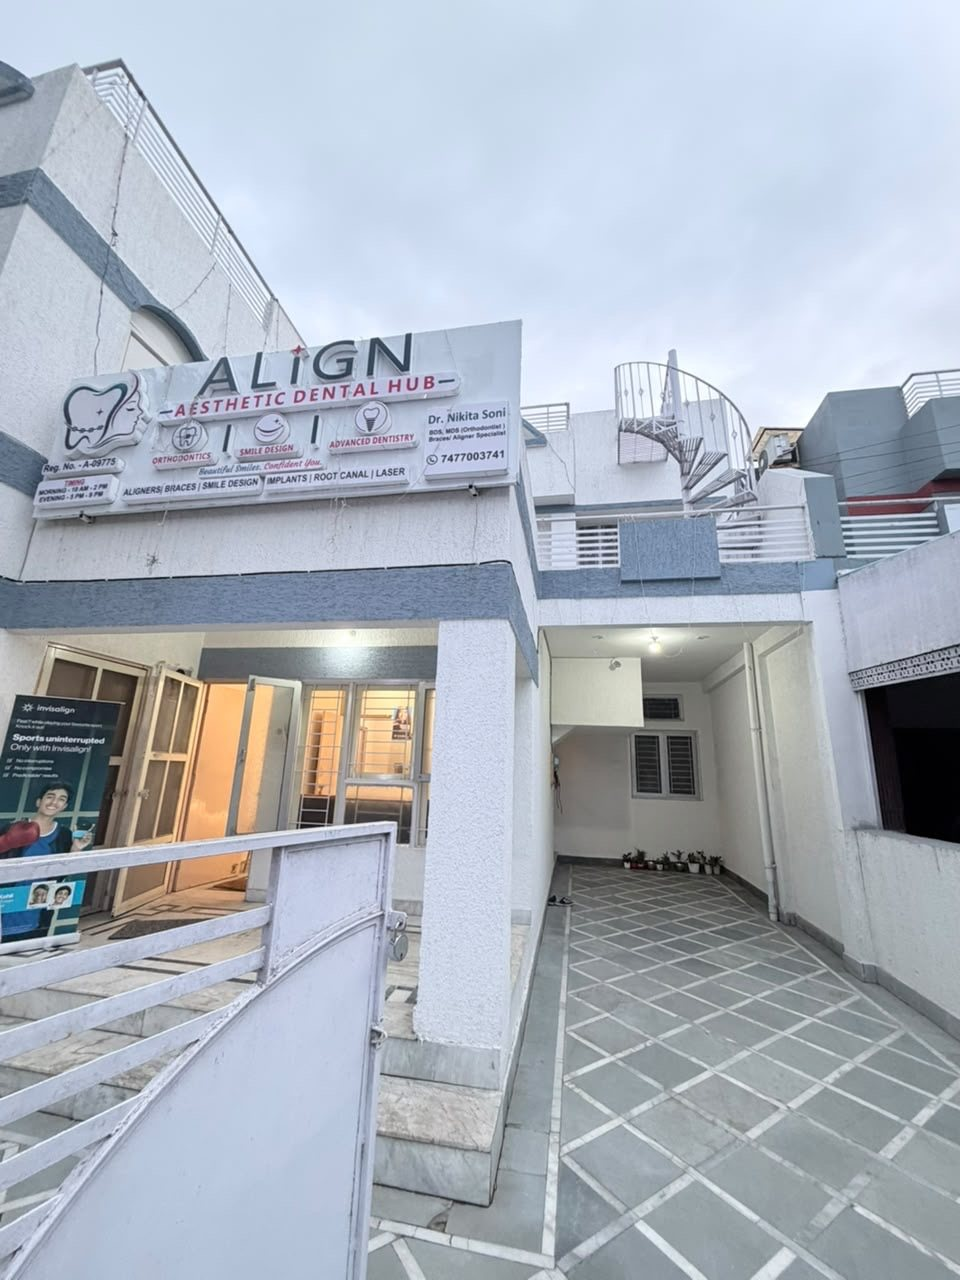
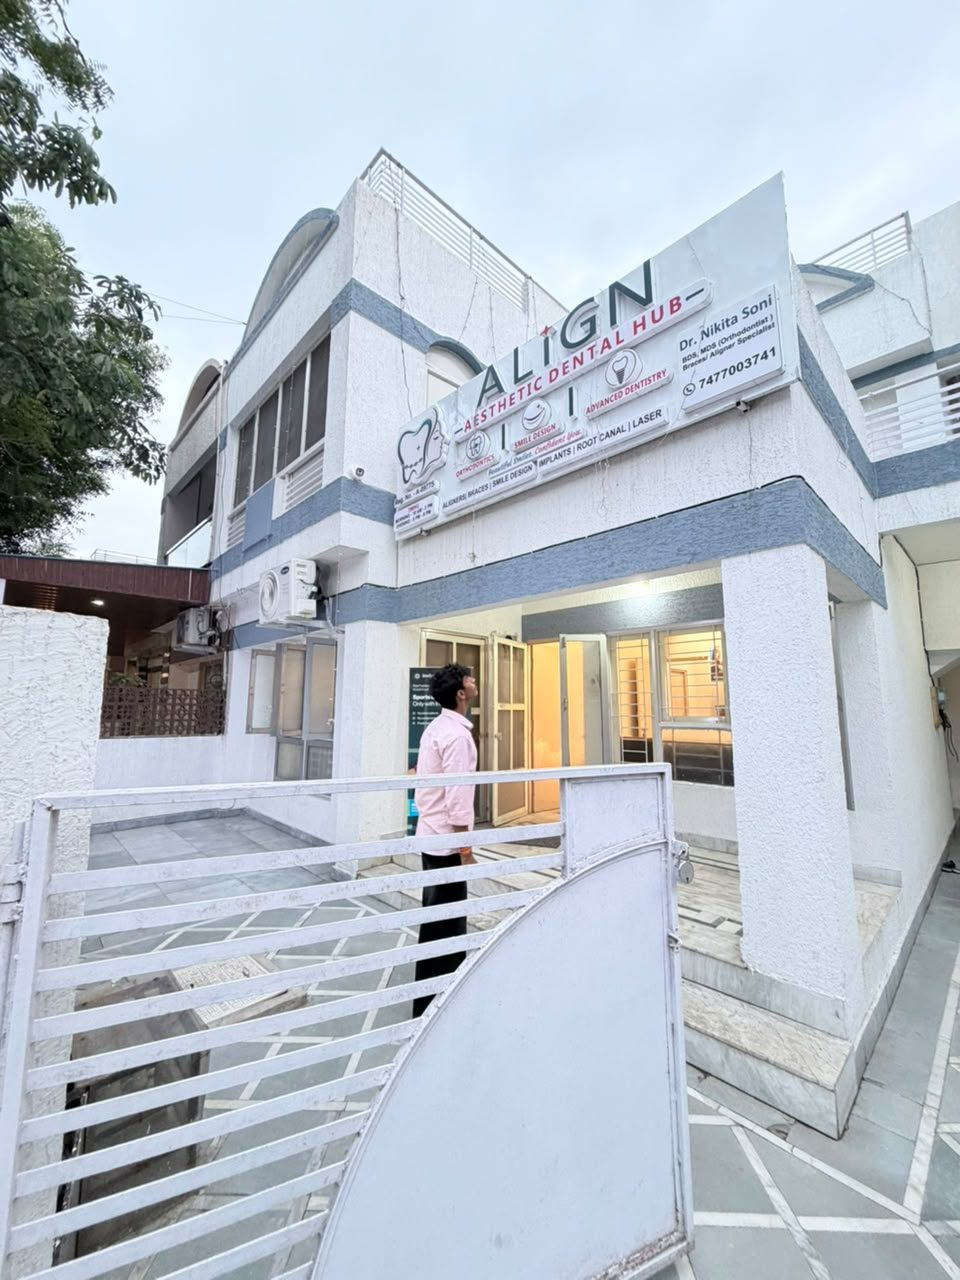
Refresh photos: new doctor/clinic/treatment shots, remove the awkward bent photo, rebuild the day filmstrip

diff --git a/src/lib/gallery.ts b/src/lib/gallery.ts
@@ -1,12 +1,12 @@
-import { learning } from "./clinic";
 /**
  * Clinic photographs published on the site.
  *
  * `hasPatient` marks frames where a patient is visible in the chair. Set
  * SHOW_PATIENT_PHOTOS to false to drop them everywhere at once if consent is
- * not on file. Two waiting-room photos with clearly identifiable visitors
- * (photos/originals #41 and #43) are deliberately not published at all.
+ * not on file.
  */
+
+import { learning } from "./clinic";
 
 export const SHOW_PATIENT_PHOTOS = true;
 
@@ -20,26 +20,32 @@ export type Photo = {
 };
 
 const all: Photo[] = [
-  { src: "/images/clinic/signboard.jpg", alt: "Align Aesthetic Dental Hub signboard on JK Road", caption: "The signboard, JK Road", category: "Clinic", wide: true },
-  { src: "/images/clinic/reception-tooth.jpg", alt: "Reception desk in front of an illuminated tooth-shaped wall", caption: "Reception", category: "Clinic" },
-  { src: "/images/clinic/operatory.jpg", alt: "Treatment chair with overhead light and instrument delivery", caption: "Treatment room", category: "Clinic" },
-  { src: "/images/clinic/entrance.jpg", alt: "Clinic entrance with the Align signboard above", caption: "Entrance", category: "Clinic" },
-  { src: "/images/clinic/tooth-sign-night.jpg", alt: "Illuminated tooth-shaped sign at night", caption: "The tooth sign, after dark", category: "Clinic" },
-  { src: "/images/clinic/counter.jpg", alt: "Instrument counter with framed certificates above", caption: "Instrument counter", category: "Clinic" },
-  { src: "/images/clinic/logo-wall.jpg", alt: "Gold Align Aesthetic logo on the consultation room wall", caption: "Consultation room wall", category: "Clinic" },
-  { src: "/images/clinic/exterior.jpg", alt: "Front of the clinic building", caption: "From the street", category: "Clinic" },
-  { src: "/images/clinic/consultation.jpg", alt: "Dr. Nikita Soni in consultation at her desk", caption: "Consultation", category: "Treatment", hasPatient: true },
-  { src: "/images/clinic/treatment-bay-wide.jpg", alt: "Dr. Nikita Soni treating a patient", caption: "In treatment", category: "Treatment", hasPatient: true },
-  { src: "/images/clinic/treatment-bay-camera.jpg", alt: "Examination with the intraoral camera image on the chairside screen", caption: "Intraoral camera on screen", category: "Treatment", hasPatient: true },
-  { src: "/images/clinic/treatment-glass.jpg", alt: "Treatment chair beside a frosted glass partition", caption: "Chairside", category: "Treatment", hasPatient: true },
-  { src: "/images/doctor/at-work-green.jpg", alt: "Dr. Nikita Soni examining a patient", caption: "Examination", category: "Treatment", hasPatient: true },
-  { src: "/images/doctor/portrait-desk.jpg", alt: "Dr. Nikita Soni at her desk beneath the Align logo", caption: "Dr. Nikita Soni", category: "Dr. Nikita" },
+  // Dr. Nikita — upright, current photos first
+  { src: "/images/doctor/certificate-wall.jpg", alt: "Dr. Nikita Soni seated in front of her wall of framed certificates", caption: "Dr. Nikita Soni", category: "Dr. Nikita", wide: true },
+  { src: "/images/doctor/reception-standing.jpg", alt: "Dr. Nikita Soni at the reception desk", caption: "At reception", category: "Dr. Nikita" },
+  { src: "/images/doctor/sofa.jpg", alt: "Dr. Nikita Soni in the clinic lounge", caption: "In the lounge", category: "Dr. Nikita" },
+  { src: "/images/doctor/portrait-desk.jpg", alt: "Dr. Nikita Soni at her desk beneath the Align logo", caption: "At her desk", category: "Dr. Nikita" },
   { src: "/images/doctor/scrubs-standing.jpg", alt: "Dr. Nikita Soni in scrubs", caption: "In the clinic", category: "Dr. Nikita" },
   { src: "/images/doctor/scrubs-desk.jpg", alt: "Dr. Nikita Soni at the consultation desk in scrubs", caption: "Consultation desk", category: "Dr. Nikita" },
-  { src: "/images/doctor/reception.jpg", alt: "Dr. Nikita Soni at the reception", caption: "Reception", category: "Dr. Nikita" },
-  { src: "/images/doctor/credentials-wall.jpg", alt: "Dr. Nikita Soni in front of her framed certificates", caption: "The certificate wall", category: "Dr. Nikita", wide: true },
-  { src: "/images/credentials/mds.jpg", alt: "MDS degree certificate in Orthodontics", caption: "MDS · Orthodontics, 2023", category: "Credentials" },
-  { src: "/images/credentials/bds.jpg", alt: "BDS degree certificate", caption: "BDS, 2018", category: "Credentials" },
+  { src: "/images/doctor/sofa-2.jpg", alt: "Dr. Nikita Soni in the clinic lounge", caption: "A quiet moment", category: "Dr. Nikita" },
+
+  // Clinic
+  { src: "/images/clinic/signboard.jpg", alt: "Align Aesthetic Dental Hub signboard on JK Road", caption: "The signboard, JK Road", category: "Clinic", wide: true },
+  { src: "/images/clinic/reception-desk.jpg", alt: "Reception desk in front of the illuminated tooth-shaped wall", caption: "Reception", category: "Clinic" },
+  { src: "/images/clinic/reception-wide.jpg", alt: "Reception and the tooth-shaped LED wall", caption: "The reception wall", category: "Clinic" },
+  { src: "/images/clinic/lounge-window.jpg", alt: "Clinic waiting lounge with a window and sofa", caption: "The waiting lounge", category: "Clinic" },
+  { src: "/images/clinic/entrance.jpg", alt: "Clinic entrance with the Align signboard above", caption: "Entrance", category: "Clinic" },
+  { src: "/images/clinic/exterior.jpg", alt: "Front of the clinic building on JK Road", caption: "From the street", category: "Clinic" },
+  { src: "/images/clinic/signboard-nameplate.jpg", alt: "Signboard and the Matru Chhaya, New Minal A-6 nameplate", caption: "A-6, New Minal", category: "Clinic" },
+  { src: "/images/clinic/operatory.jpg", alt: "Treatment chair with overhead light and instrument delivery", caption: "Treatment room", category: "Clinic" },
+  { src: "/images/clinic/tooth-sign-night.jpg", alt: "Illuminated tooth-shaped sign at night", caption: "The tooth sign, after dark", category: "Clinic" },
+  { src: "/images/clinic/logo-wall.jpg", alt: "Gold Align Aesthetic logo on the consultation room wall", caption: "Consultation room wall", category: "Clinic" },
+
+  // Treatment (with patients)
+  { src: "/images/clinic/camera-on-screen.jpg", alt: "Examination with the intraoral camera image on the chairside screen", caption: "Intraoral camera on screen", category: "Treatment", hasPatient: true },
+  { src: "/images/clinic/examination.jpg", alt: "Dr. Nikita Soni examining a patient with an assistant", caption: "In examination", category: "Treatment", hasPatient: true },
+  { src: "/images/clinic/treatment-chair.jpg", alt: "Dr. Nikita Soni treating a patient in the chair", caption: "In treatment", category: "Treatment", hasPatient: true },
+  { src: "/images/clinic/consultation.jpg", alt: "Dr. Nikita Soni in consultation at her desk", caption: "Consultation", category: "Treatment", hasPatient: true },
 ];
 
 /** Every continuing-education certificate also appears under "Credentials". */

diff --git a/src/components/home/clinic-showcase.tsx b/src/components/home/clinic-showcase.tsx
@@ -20,18 +20,17 @@ import { cn } from "@/lib/cn";
 type Shot = { src: string; time: string; title: string; note: string; focus?: string };
 
 const SHOTS: Shot[] = [
-  { src: "/images/showcase/01-welcome.jpg", time: "09:58", title: "The welcome", note: "Every visit starts at the tooth-shaped front desk.", focus: "50% 45%" },
-  { src: "/images/showcase/02-front-desk.jpg", time: "10:00", title: "Doors open", note: "Open all seven days, from ten in the morning.", focus: "50% 40%" },
-  { src: "/images/showcase/03-tooth-light.jpg", time: "10:05", title: "First hello", note: "Your token is checked in and you’re shown right through.", focus: "50% 42%" },
-  { src: "/images/showcase/04-closer-look.jpg", time: "10:15", title: "A closer look", note: "A careful examination before any plan is made.", focus: "55% 40%" },
-  { src: "/images/showcase/05-checkup.jpg", time: "10:20", title: "The check-up", note: "Teeth, gums and bite — looked at properly.", focus: "45% 40%" },
-  { src: "/images/showcase/06-on-screen.jpg", time: "10:25", title: "On the big screen", note: "The intraoral camera puts your own teeth in front of you.", focus: "55% 45%" },
-  { src: "/images/showcase/07-seeing.jpg", time: "10:28", title: "See it yourself", note: "No guesswork — you see exactly what the doctor sees.", focus: "65% 35%" },
-  { src: "/images/showcase/08-explained.jpg", time: "10:32", title: "Explained, simply", note: "Options talked through in plain words.", focus: "60% 40%" },
-  { src: "/images/showcase/09-treatment-room.jpg", time: "10:40", title: "The treatment room", note: "Sterile instruments, one patient at a time.", focus: "40% 45%" },
-  { src: "/images/showcase/10-unhurried.jpg", time: "10:50", title: "Unhurried care", note: "Fifteen-minute tokens mean no one is rushed.", focus: "65% 45%" },
-  { src: "/images/showcase/11-between.jpg", time: "14:00", title: "Between appointments", note: "A moment on the sofa before the evening session.", focus: "62% 60%" },
-  { src: "/images/showcase/12-unwind.jpg", time: "21:00", title: "Until tomorrow", note: "Evening tokens run till nine. See you soon.", focus: "55% 60%" },
+  { src: "/images/clinic/exterior.jpg", time: "09:55", title: "On JK Road", note: "Look for the tooth-shaped sign at A-6, New Minal Residency.", focus: "50% 45%" },
+  { src: "/images/clinic/reception-desk.jpg", time: "10:00", title: "The welcome", note: "Every visit starts at the tooth-shaped front desk.", focus: "55% 40%" },
+  { src: "/images/clinic/reception-wide.jpg", time: "10:03", title: "The tooth wall", note: "Open all seven days, from ten in the morning.", focus: "50% 40%" },
+  { src: "/images/clinic/lounge-window.jpg", time: "10:08", title: "The waiting lounge", note: "A calm, bright place to wait — rarely for long.", focus: "50% 45%" },
+  { src: "/images/doctor/certificate-wall.jpg", time: "10:12", title: "Meet Dr. Nikita", note: "Your orthodontist, in front of the courses she has earned.", focus: "50% 42%" },
+  { src: "/images/clinic/examination.jpg", time: "10:18", title: "The check-up", note: "A careful look before any plan is made.", focus: "45% 40%" },
+  { src: "/images/clinic/camera-on-screen.jpg", time: "10:25", title: "On the big screen", note: "The intraoral camera puts your own teeth in front of you.", focus: "55% 42%" },
+  { src: "/images/clinic/treatment-chair.jpg", time: "10:35", title: "In treatment", note: "Fifteen-minute tokens mean no one is rushed.", focus: "45% 42%" },
+  { src: "/images/clinic/operatory.jpg", time: "10:45", title: "The treatment room", note: "Sterile instruments, one patient at a time.", focus: "45% 45%" },
+  { src: "/images/doctor/sofa.jpg", time: "14:00", title: "Between appointments", note: "A quiet moment before the evening session.", focus: "55% 45%" },
+  { src: "/images/clinic/tooth-sign-night.jpg", time: "21:00", title: "Until tomorrow", note: "Evening tokens run till nine. See you soon.", focus: "50% 45%" },
 ];
 
 const AUTOPLAY_MS = 3800;

diff --git a/src/lib/treatments.ts b/src/lib/treatments.ts
@@ -48,7 +48,7 @@ export const treatments: Treatment[] = [
       { q: "Do aligners hurt?", a: "Most people feel pressure for a day or two when they switch to a new set. It usually settles quickly." },
       { q: "Can every case be treated with aligners?", a: "Not always. Some bite problems move more predictably with fixed braces. An orthodontic examination is the only honest way to tell." },
     ],
-    image: "/images/clinic/treatment-bay-camera.jpg",
+    image: "/images/clinic/camera-on-screen.jpg",
   },
   {
     slug: "braces",
@@ -75,7 +75,7 @@ export const treatments: Treatment[] = [
       { q: "How often are the visits?", a: "Adjustment visits are usually spaced a few weeks apart; your schedule depends on the plan." },
       { q: "Can I eat normally?", a: "Mostly, yes. Very hard and very sticky foods are best avoided because they can break a bracket." },
     ],
-    image: "/images/clinic/treatment-bay-wide.jpg",
+    image: "/images/clinic/treatment-chair.jpg",
   },
   {
     slug: "smile-design",
@@ -222,7 +222,7 @@ export const treatments: Treatment[] = [
     faqs: [
       { q: "How often should I get a check-up?", a: "Many people are advised to visit every six months, but the right interval depends on your teeth and gums." },
     ],
-    image: "/images/clinic/treatment-bay-green.jpg",
+    image: "/images/clinic/examination.jpg",
   },
 ];
 

diff --git a/src/components/home/clinic-frames.tsx b/src/components/home/clinic-frames.tsx
@@ -10,7 +10,7 @@ const frames = [
   { src: "/images/clinic/reception-tooth.jpg", caption: "Reception", speed: -60, className: "lg:col-span-4 lg:row-span-2 aspect-[3/4]" },
   { src: "/images/clinic/operatory.jpg", caption: "Treatment room", speed: 40, className: "lg:col-span-3 aspect-[3/4] lg:mt-24" },
   { src: "/images/clinic/entrance.jpg", caption: "Entrance", speed: -20, className: "lg:col-span-5 aspect-[4/3]" },
-  { src: "/images/clinic/counter.jpg", caption: "Instrument counter", speed: 70, className: "lg:col-span-3 lg:col-start-6 aspect-square" },
+  { src: "/images/clinic/reception-wide.jpg", caption: "The reception wall", speed: 70, className: "lg:col-span-3 lg:col-start-6 aspect-square" },
   { src: "/images/clinic/tooth-sign-night.jpg", caption: "After dark", speed: -40, className: "lg:col-span-4 aspect-[4/5]" },
 ];
 

diff --git a/src/components/home/doctor-spotlight.tsx b/src/components/home/doctor-spotlight.tsx
@@ -55,11 +55,11 @@ export function DoctorSpotlight() {
           >
             <motion.div style={reduce ? undefined : { scale }} className="absolute inset-0">
               <Image
-                src="/images/doctor/credentials-wall.jpg"
-                alt="Dr. Nikita Soni relaxing on the sofa in her clinic"
+                src="/images/doctor/certificate-wall.jpg"
+                alt="Dr. Nikita Soni seated in front of her wall of framed certificates"
                 fill
                 sizes="(min-width: 1024px) 58vw, 100vw"
-                className="object-cover object-[46%_62%] brightness-[1.12] saturate-[1.05]"
+                className="object-cover object-[50%_42%] brightness-[1.08] saturate-[1.03]"
               />
             </motion.div>
             {/* warm light from the top-left, like a window */}
